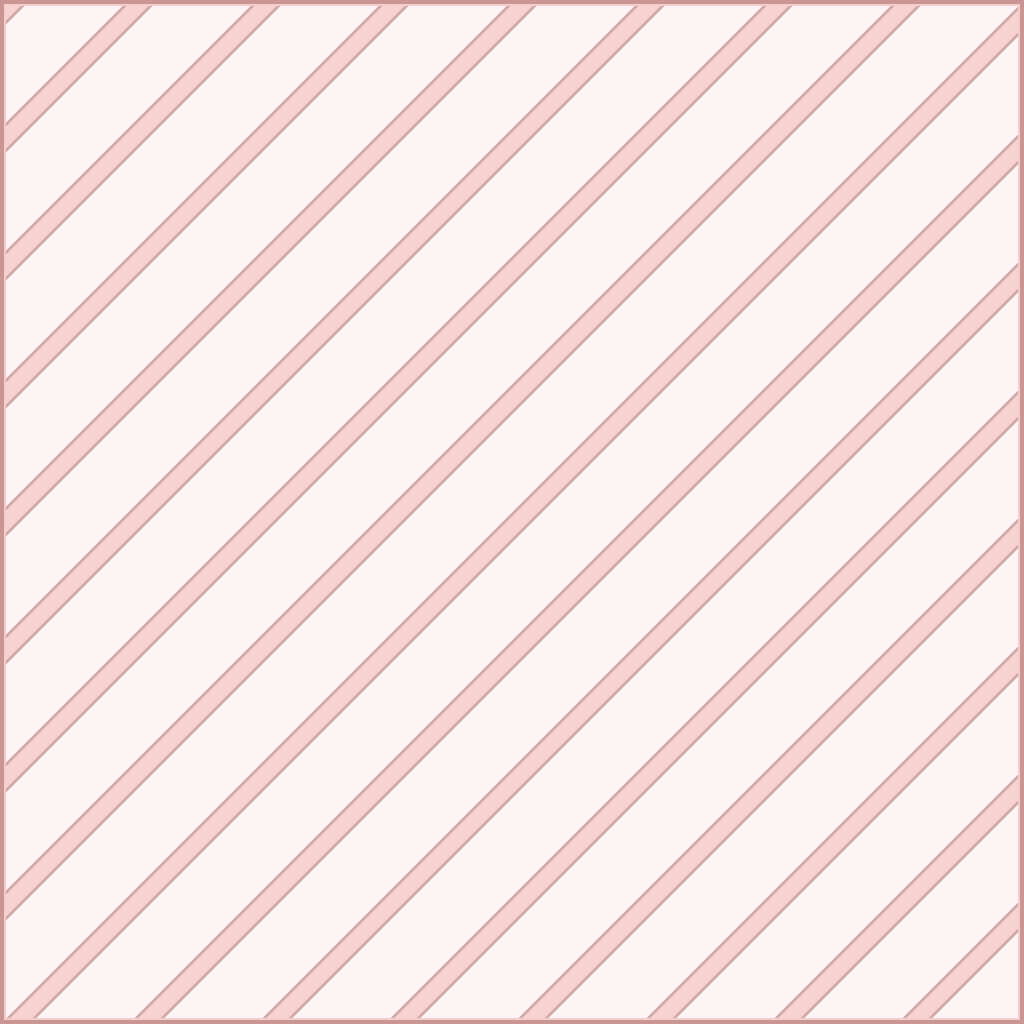
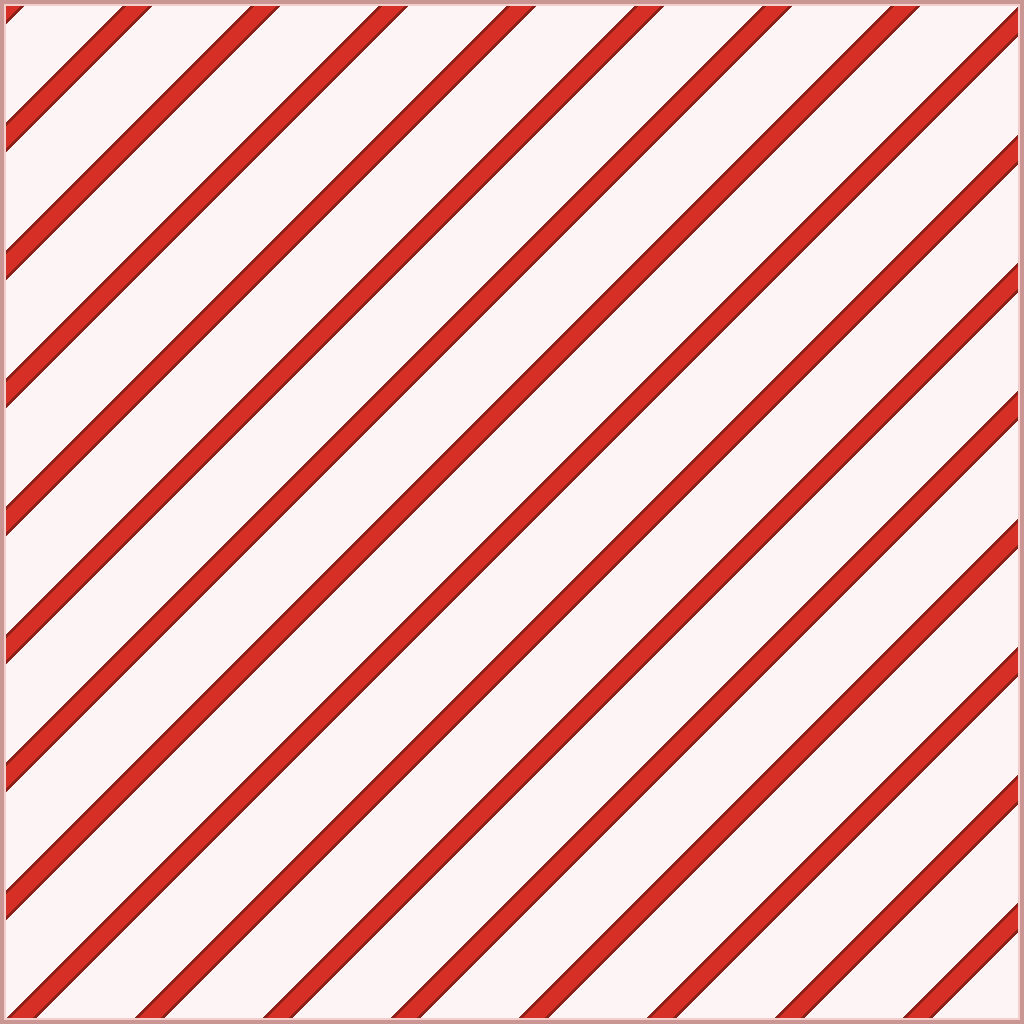
Overlays: rampart wears the original red pattern, wilderness goes opaque
Playtest call. The full-strength red ribbon that marked Wilderness reads
as "fortified, not fully yours" - it now marks RAMPART, replacing the
faint yellow. Wilderness keeps the same artwork with the two stripe
elements lifted to alpha 255: fully opaque red, a hard no at any zoom.
Trail is untouched.

gen_overlays.py drops the single busy-to-calm alpha formula for explicit
per-state specs, since the states no longer sit on one gradient; rampart
deliberately reads COLORS["wilderness"], with a comment so it doesn't get
"fixed". Border-line colors (per-player settings, state_colors.lua
defaults) are unchanged - this recolors only the ground overlays.

diff --git a/tools/gen_overlays.py b/tools/gen_overlays.py
@@ -1,13 +1,15 @@
 #!/usr/bin/env python3
 """Generate the per-state cell overlays drawn by the blocker entities
-(ADR-0009). One shared ribbon pattern; the states differ only in color and
-transparency, forming a busy-to-calm gradient that matches raising land one
-rung at a time:
+(ADR-0009). One shared ribbon pattern; the states differ in color and
+stripe strength (playtest call, 0.1.8: the original full-strength red
+pattern reads as "fortified, not yet fully yours" and now marks RAMPART;
+wilderness escalates the same artwork to fully opaque red stripes,
+unmistakable at any zoom):
 
-    wilderness  red     (full strength)
-    trail       orange  (more transparent)
-    rampart     yellow  (more transparent still)
-    deed        —       (no blocker, fully clear)
+    wilderness  red, stripes 100% opaque   (hard no)
+    trail       orange, calmer             (transit corridor)
+    rampart     red, the original pattern  (one rung from Deed)
+    deed        —                          (no blocker, fully clear)
 
 Each sprite is 1024x1024 px; the data stage scales it to the configured cell
 size. The stripe period divides 1024, so patterns continue seamlessly across
@@ -56,20 +58,23 @@ def darken(c, f=0.66):
     return tuple(round(v * f) for v in c)
 
 
-ALPHA_SCALE = {
-    "wilderness": 1.00,
-    "trail": 0.90,
-    "rampart": 0.80,
-}
-
+# Per-state look. Rampart deliberately wears the WILDERNESS palette entry —
+# if that line looks wrong, read the module docstring: the red pattern
+# moved down a rung, it was not left behind by accident. Only wilderness
+# sets opaque_ribbon, which lifts the two stripe elements (edge + core) to
+# alpha 255 while border, inner line, and wash keep their usual strengths.
+RED = COLORS["wilderness"]
 STATES = {
-    name: (COLORS[name], darken(COLORS[name]), scale)
-    for name, scale in ALPHA_SCALE.items()
+    "wilderness": (RED, darken(RED), 1.00, True),
+    "trail": (COLORS["trail"], darken(COLORS["trail"]), 0.90, False),
+    "rampart": (RED, darken(RED), 1.00, False),
 }
 
 
-def make(name, color, dark, alpha_scale):
+def make(name, color, dark, alpha_scale, opaque_ribbon):
     def a(key):
+        if opaque_ribbon and key in ("ribbon_edge", "ribbon_core"):
+            return 255
         return max(1, round(A[key] * alpha_scale))
 
     img = Image.new("RGBA", (SIZE, SIZE))
@@ -96,8 +101,8 @@ def make(name, color, dark, alpha_scale):
 
 
 def main():
-    for name, (color, dark, scale) in STATES.items():
-        make(name, color, dark, scale)
+    for name, (color, dark, scale, opaque_ribbon) in STATES.items():
+        make(name, color, dark, scale, opaque_ribbon)
 
 
 if __name__ == "__main__":
